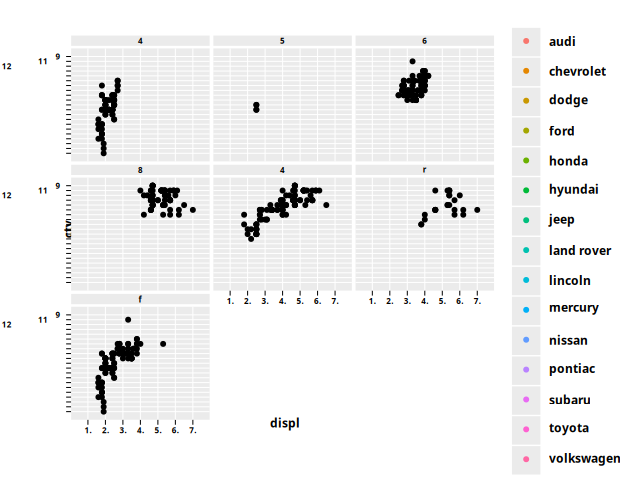
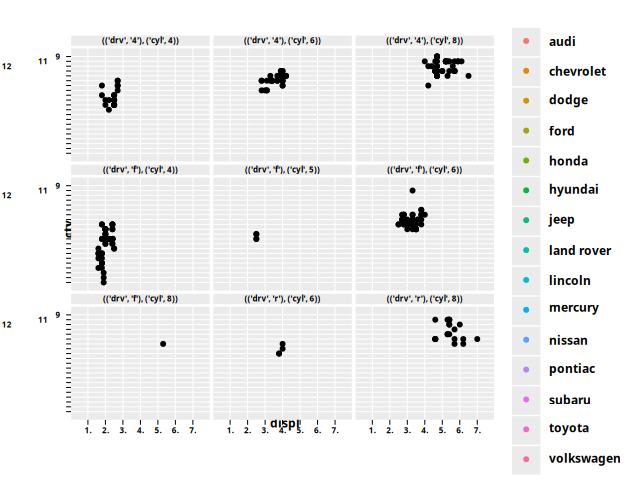
calculate the correct combos for facets

diff --git a/src/python_ggplot/public_interface/utils.py b/src/python_ggplot/public_interface/utils.py
@@ -1325,25 +1325,40 @@ def determine_existing_combinations(fs: FilledScales, facet: Facet) -> Set[GGVal
         combinations: List[List[GGValue]] = [[label] for label in facets[0].gg_data.discrete_kind.label_seq]  # type: ignore
 
     comb_labels: Set[Tuple[str, GGValue]] = set()
-    for combination in combinations:
-        comb = [(str(fc.gg_data.col), val) for fc, val in zip(facets, combination)]
-        for i in comb:
-            comb_labels.add(i)
+
+    for c in combinations:
+        comb = []
+        for i, fc in enumerate(facet.columns):
+            if isinstance(c[i], np.generic):
+                item = c[i].item()
+            else:
+                item = c[i]
+            comb.append((fc, item))
+        comb = tuple(comb)
+        comb_labels.add(comb)
 
     result: Set[GGValue] = set()
 
-    # TODO critical, this logic is probably a bit off
-    # need to get facets working and write unit tests
+    # This logic is a bit funny
+    # for drv. cyl in cars we get combos in terms of:
+    # (6, r), (5, f)
+    # yield_data.keys() in case of aes(color = "manufacturer")
+    # will return data in the form of (audio, 6, r)
+    # we should probably just take all the combos from the df in yield data
+    # something like df[facet.columns].drop_duplicates()
+    # this should be enough, and more simple than current impl
     for fg in fs.geoms:
-        for xk in fg.gg_data.yield_data.keys():
-            for _, cb in comb_labels:
-                if cb in xk:
+        for cb in comb_labels:
+            for xk in fg.gg_data.yield_data.keys():
+                left = {i[1] for i in cb}
+
+                if left.issubset(set(xk)):
                     result.add(cb)
 
     if len(result) > len(combinations):
         raise GGException("result should be less than combinations")
 
-    return result
+    return sorted(result)
 
 
 def calc_facet_view_map(comb_labels: Set[GGValue]) -> Dict[GGValue, int]:
@@ -1550,7 +1565,8 @@ def generate_facet_plots(
             p_child = plot_view.add_viewport_from_coords(
                 CoordsInput(), ViewPortInput(name="data")
             )
-            create_gobj_from_geom(p_child, geom, theme, label_val=label)
+            label_ = {i[1] for i in label}
+            create_gobj_from_geom(p_child, geom, theme, label_val=label_)
             plot_view.children.append(p_child)
 
         view_label.x_scale = plot_view.x_scale

diff --git a/src/python_ggplot/gg/drawing.py b/src/python_ggplot/gg/drawing.py
@@ -942,7 +942,15 @@ def create_gobj_from_geom(
     view_map = calc_view_map(fg)
 
     for lab, _, styles, sub_df in fg.enumerate_data():
-        if label_val is not None and label_val not in lab:
+        # TODO critical
+        #  for geom_point(aes(color = "manufacturer")) + facet_wrap(["drv", "cyl"])
+        # the lab will be in the form of ('audi', '4', 8)
+        # but the label will only be ('4', 8)
+        # the color is taken into account
+        # so we only need to check a subset
+        # this whole logic is a bit funny, will need some cleaning up
+        # this can result to incorrect plots, we need to match both the col and the val
+        if label_val is not None and not label_val.issubset(set(lab)):
             # skip this label
             continue
         draw_sub_df(view, fg, view_map, sub_df, styles, theme)
